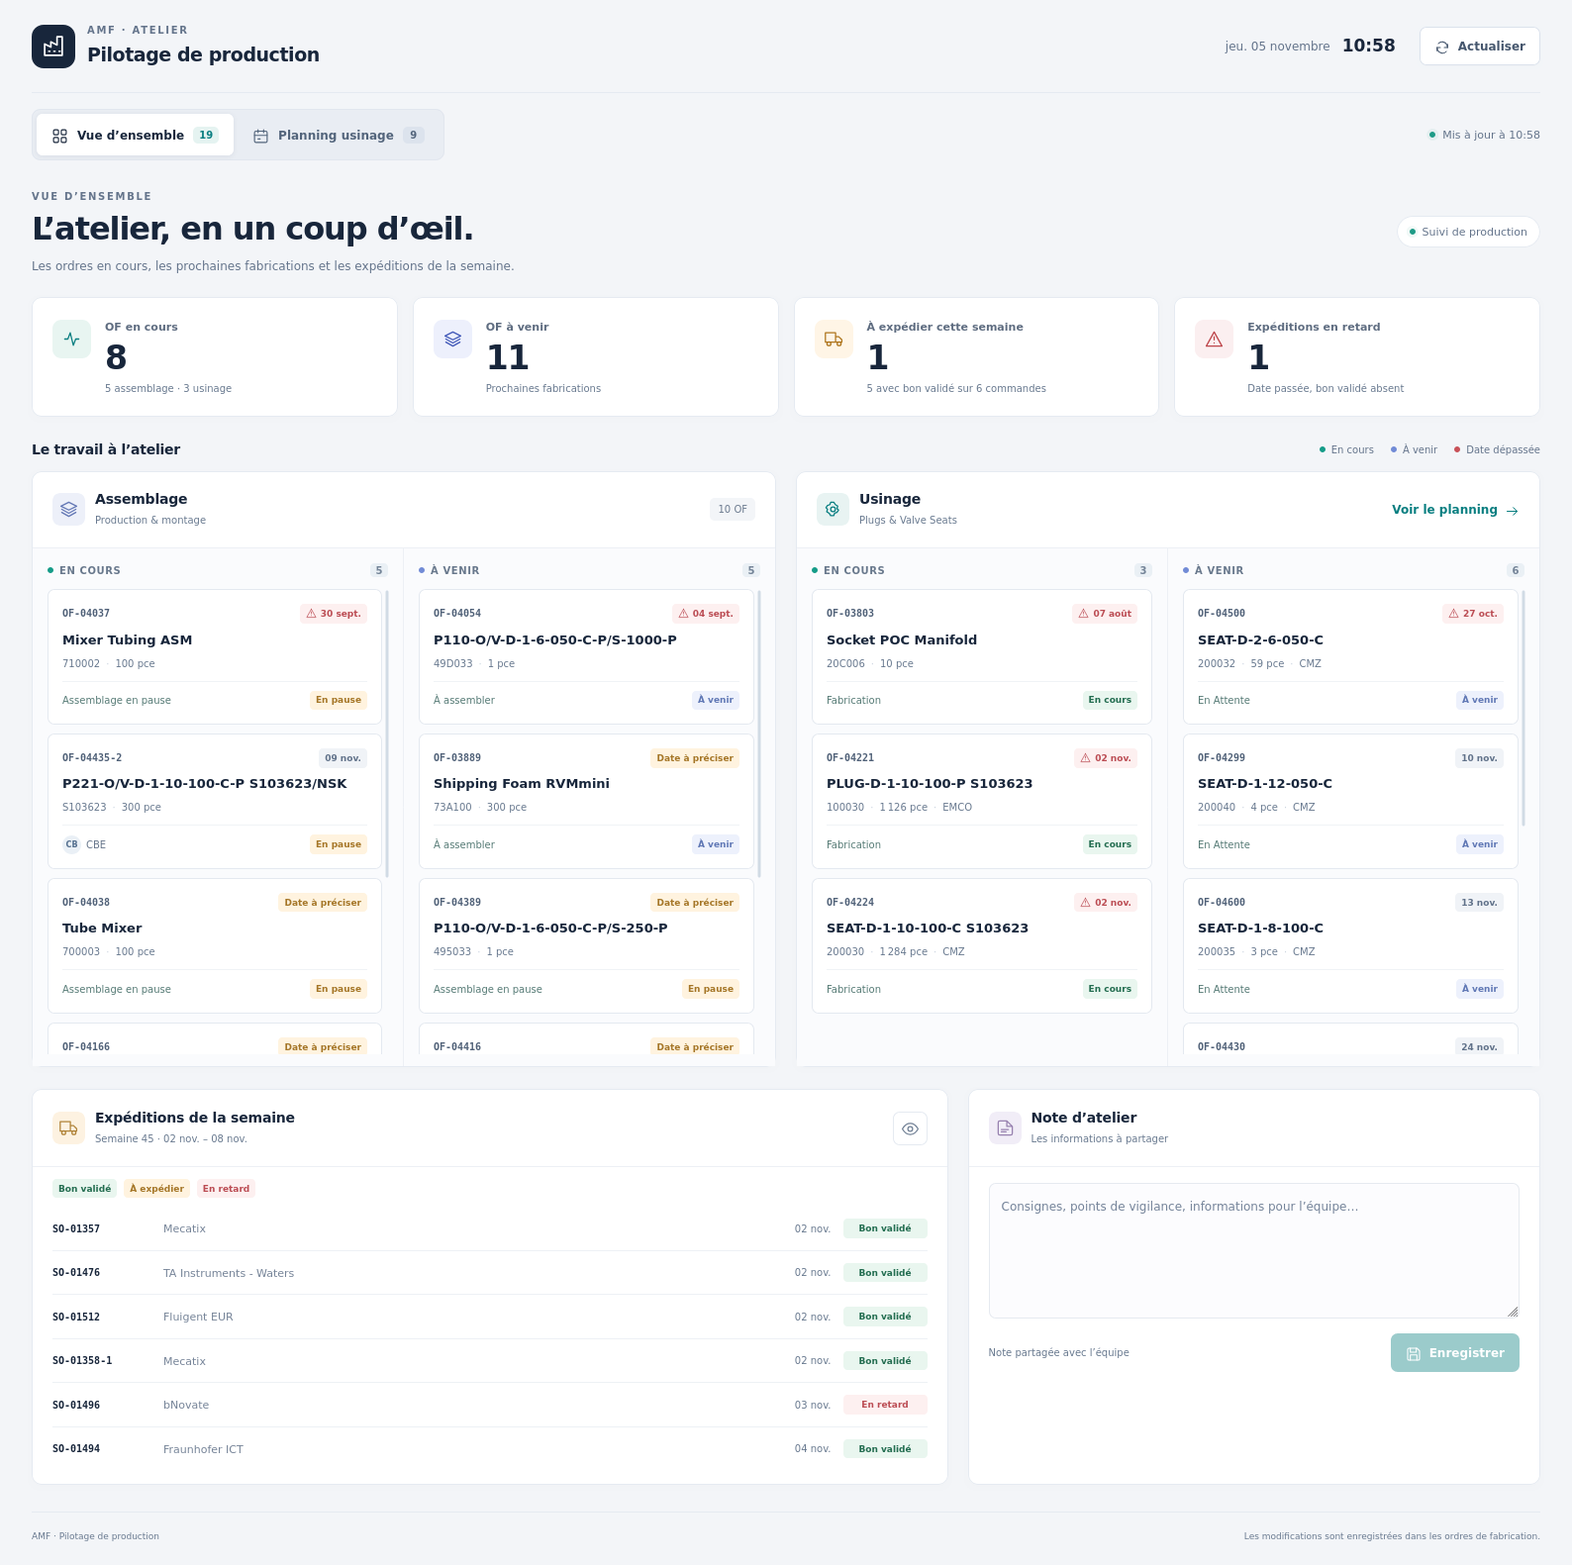
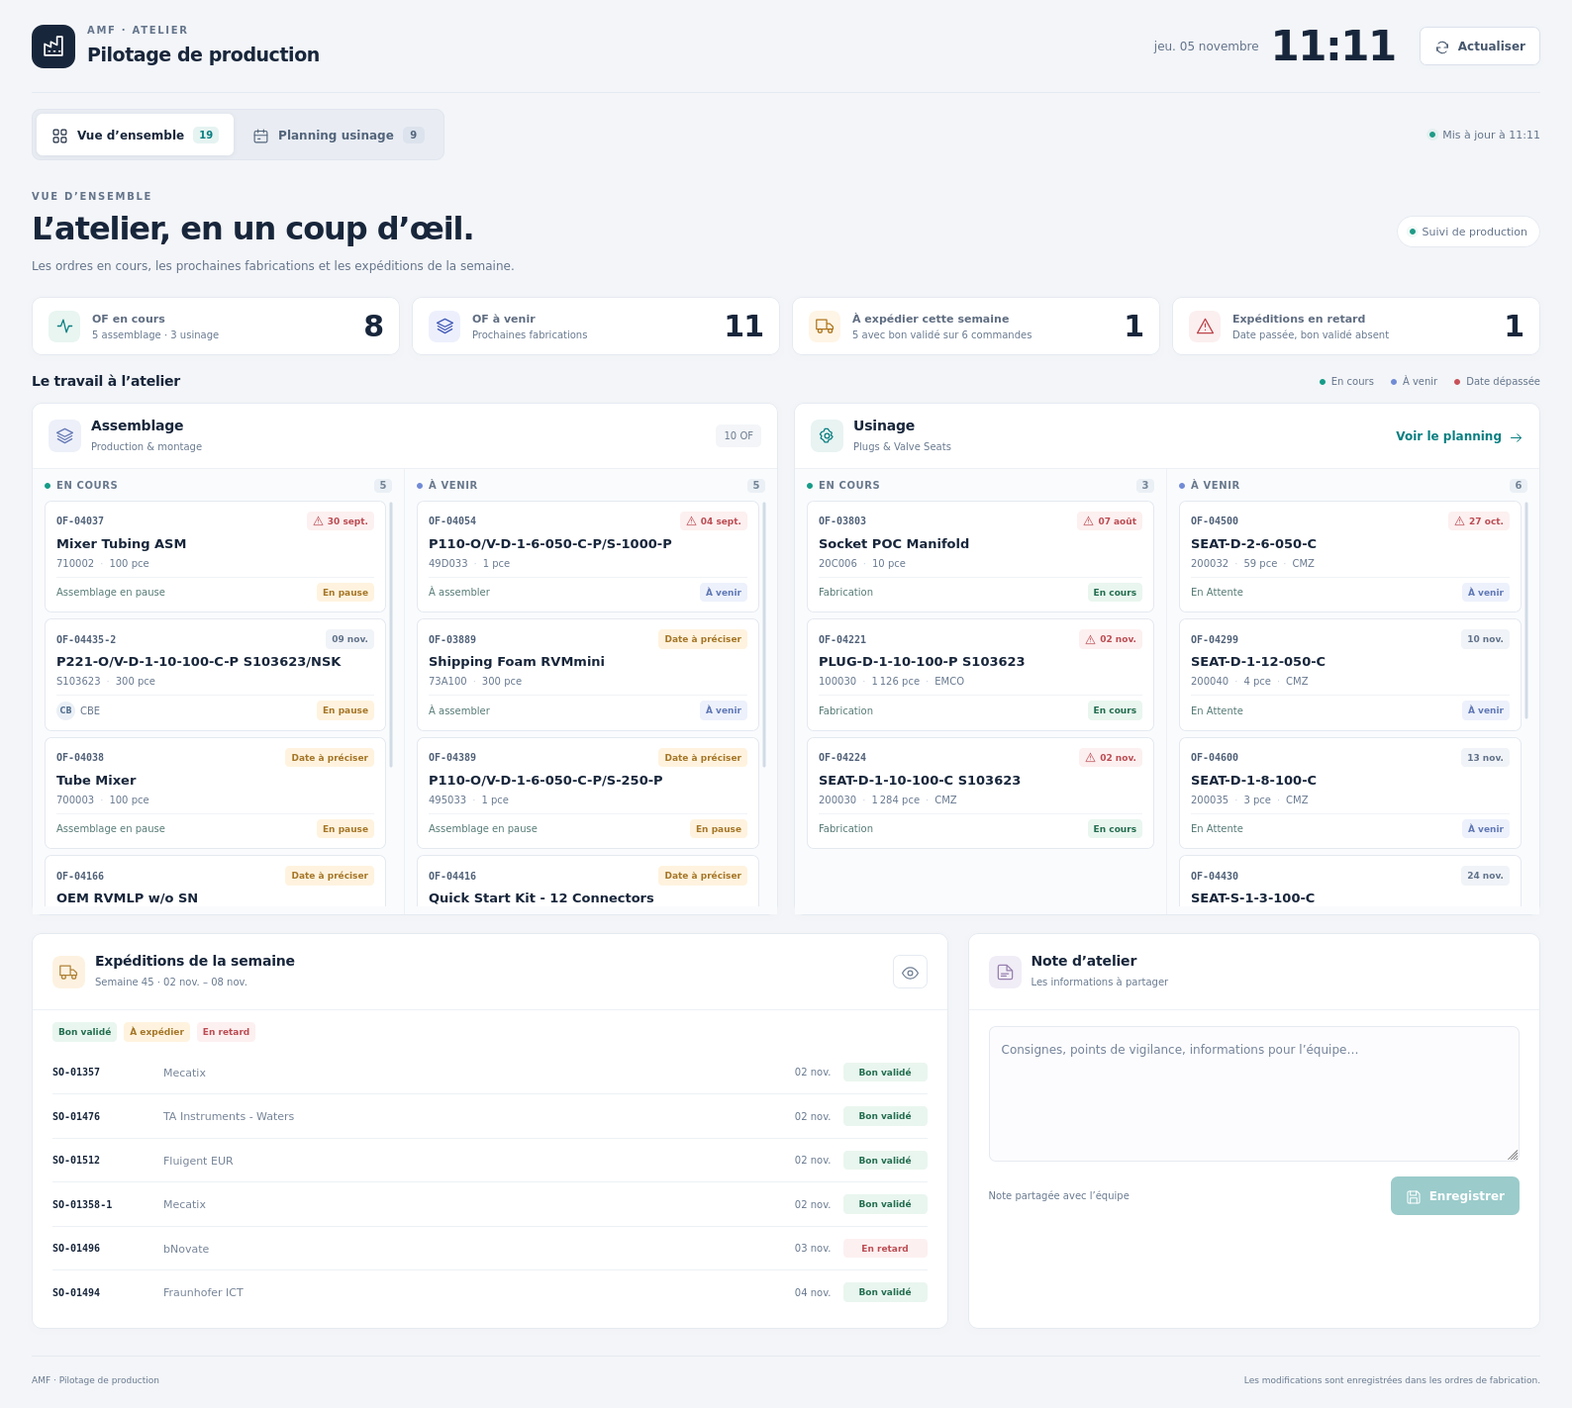
style: compact production panels and enlarge cockpit clock
Enlarge the clock on desktop and mobile, halve the summary panel height, and tighten production cards and lane spacing. Preserve readable labels and current interactions.

Document that merge/migration does not install the database Web Page and verify the V12-compatible installer command with publish=1.

Validation: measured Firefox desktop/mobile layout comparison and successful deployment through bench execute.

diff --git a/amf/templates/includes/production_tracking_planning/page.css b/amf/templates/includes/production_tracking_planning/page.css
@@ -22,7 +22,7 @@ body.pt-planning-page { background: #f3f5f8; }
 .pt-page .pt-eyebrow { display: block; color: var(--pt-muted); font-size: 10px; font-weight: 700; letter-spacing: 1.7px; margin-bottom: 3px; }
 .pt-page .pt-header-tools { display: flex; align-items: center; gap: 24px; }
 .pt-page .pt-clock { display: flex; align-items: center; gap: 12px; color: var(--pt-muted); font-size: 12px; }
-.pt-page .pt-clock strong { color: var(--pt-ink); font-size: 17px; font-variant-numeric: tabular-nums; }
+.pt-page .pt-clock strong { color: var(--pt-ink); font-size: 42px; line-height: 1.05; letter-spacing: -1.5px; font-weight: 700; font-variant-numeric: tabular-nums; }
 .pt-page .pt-button { display: inline-flex; justify-content: center; align-items: center; gap: 8px; min-height: 39px; padding: 9px 14px; border-radius: 7px; border: 1px solid transparent; font-size: 12px; font-weight: 600; white-space: nowrap; transition: background .15s, border-color .15s; }
 .pt-page .pt-button svg { width: 16px; height: 16px; }
 .pt-page .pt-button-light { background: #fff; border-color: #dbe2ec; color: #45566d; box-shadow: 0 1px 2px #18263b04; }
@@ -50,16 +50,17 @@ body.pt-planning-page { background: #f3f5f8; }
 .pt-page h1 { font-size: clamp(24px, 2.2vw, 32px); line-height: 1.2; letter-spacing: -1.05px; font-weight: 680; }
 .pt-page .pt-panel-heading p { color: var(--pt-muted); font-size: 12px; margin-top: 9px; }
 .pt-page .pt-live-label { border: 1px solid var(--pt-line); border-radius: 20px; padding: 7px 12px; background: #fff; }
-.pt-page .pt-kpis { display: grid; grid-template-columns: repeat(4, minmax(0, 1fr)); gap: 15px; margin-bottom: 25px; }
-.pt-page .pt-kpi { display: flex; align-items: flex-start; gap: 14px; min-width: 0; background: #fff; padding: 20px; border: 1px solid var(--pt-line); border-radius: 10px; box-shadow: 0 2px 3px #14233802; }
-.pt-page .pt-kpi-icon { display: grid; place-items: center; border-radius: 9px; width: 39px; height: 39px; flex-shrink: 0; margin-top: 2px; }
+.pt-page .pt-kpis { display: grid; grid-template-columns: repeat(4, minmax(0, 1fr)); gap: 12px; margin-bottom: 18px; }
+.pt-page .pt-kpi { display: flex; align-items: center; gap: 12px; min-width: 0; background: #fff; padding: 12px 16px; border: 1px solid var(--pt-line); border-radius: 10px; box-shadow: 0 2px 3px #14233802; }
+.pt-page .pt-kpi > div { display: grid; grid-template-columns: minmax(0, 1fr) auto; align-items: center; column-gap: 12px; flex: 1; min-width: 0; }
+.pt-page .pt-kpi-icon { display: grid; place-items: center; border-radius: 8px; width: 32px; height: 32px; flex-shrink: 0; }
 .pt-page .pt-kpi-teal .pt-kpi-icon { color: var(--pt-teal); background: #e8f5f1; }
 .pt-page .pt-kpi-blue .pt-kpi-icon { color: var(--pt-blue); background: #edf0fc; }
 .pt-page .pt-kpi-amber .pt-kpi-icon { color: var(--pt-amber); background: #fff5e6; }
 .pt-page .pt-kpi-red .pt-kpi-icon { color: var(--pt-red); background: #fbeff0; }
-.pt-page .pt-kpi-label { display: block; color: #5e6c80; font-size: 11px; font-weight: 550; }
-.pt-page .pt-kpi strong { display: block; font-size: 33px; letter-spacing: -1.2px; line-height: 1.3; font-weight: 700; font-variant-numeric: tabular-nums; margin: 2px 0; }
-.pt-page .pt-kpi-detail { display: block; font-size: 10px; color: #68798f; }
+.pt-page .pt-kpi-label { display: block; grid-column: 1; grid-row: 1; color: #5e6c80; font-size: 11px; font-weight: 550; }
+.pt-page .pt-kpi strong { display: block; grid-column: 2; grid-row: 1 / span 2; justify-self: end; font-size: 30px; letter-spacing: -1px; line-height: 1.1; font-weight: 700; font-variant-numeric: tabular-nums; margin: 0; }
+.pt-page .pt-kpi-detail { display: block; grid-column: 1; grid-row: 2; font-size: 10px; color: #68798f; }
 .pt-page .pt-section-bar { display: flex; justify-content: space-between; align-items: center; gap: 12px; margin-bottom: 13px; }
 .pt-page .pt-section-bar h2 { font-size: 14px; font-weight: 650; letter-spacing: -.25px; }
 .pt-page .pt-section-bar p { color: var(--pt-muted); margin-top: 4px; font-size: 11px; }
@@ -69,9 +70,10 @@ body.pt-planning-page { background: #f3f5f8; }
 .pt-page .pt-dot-teal { background: #159c88; }
 .pt-page .pt-dot-blue { background: #718bd6; }
 .pt-page .pt-dot-red { background: #c85158; }
-.pt-page .pt-boards { display: grid; grid-template-columns: repeat(2, minmax(0, 1fr)); gap: 20px; margin-bottom: 22px; }
+.pt-page .pt-boards { display: grid; grid-template-columns: repeat(2, minmax(0, 1fr)); gap: 16px; margin-bottom: 18px; }
 .pt-page .pt-board, .pt-page .pt-surface { min-width: 0; background: #fff; border: 1px solid var(--pt-line); border-radius: 10px; box-shadow: 0 2px 3px #14233802; }
 .pt-page .pt-board-header, .pt-page .pt-surface-header { display: flex; align-items: center; justify-content: space-between; gap: 15px; padding: 18px 20px; border-bottom: 1px solid #edf0f5; }
+.pt-page .pt-board-header { padding: 12px 16px; }
 .pt-page .pt-section-title { display: flex; align-items: center; gap: 10px; min-width: 0; }
 .pt-page .pt-section-icon { display: grid; place-items: center; width: 33px; height: 33px; flex-shrink: 0; background: #edf0f9; color: #6478b5; border-radius: 8px; }
 .pt-page .pt-board-machining .pt-section-icon { background: #e8f3f2; color: var(--pt-teal); }
@@ -81,19 +83,19 @@ body.pt-planning-page { background: #f3f5f8; }
 .pt-page .pt-section-title span:not(.pt-section-icon) { font-size: 10px; color: #68798f; }
 .pt-page .pt-count-pill { background: #f3f5f8; padding: 4px 8px; border-radius: 5px; color: #6c7b8f; font-size: 10px; white-space: nowrap; }
 .pt-page .pt-board-lanes { display: grid; grid-template-columns: repeat(2, minmax(0, 1fr)); }
-.pt-page .pt-lane { min-width: 0; padding: 15px 13px 12px; background: #fafbfd; }
+.pt-page .pt-lane { min-width: 0; padding: 10px 10px 8px; background: #fafbfd; }
 .pt-page .pt-lane:first-child { border-right: 1px solid #edf0f5; }
-.pt-page .pt-lane h3 { display: flex; align-items: center; gap: 6px; color: #68788c; font-size: 10px; font-weight: 650; text-transform: uppercase; letter-spacing: .6px; margin: 0 2px 12px; }
+.pt-page .pt-lane h3 { display: flex; align-items: center; gap: 6px; color: #68788c; font-size: 10px; font-weight: 650; text-transform: uppercase; letter-spacing: .6px; margin: 0 2px 8px; }
 .pt-page .pt-lane-count { margin-left: auto; color: #738397; background: #eaf0f5; border-radius: 4px; padding: 1px 5px; font-size: 10px; }
-.pt-page .pt-order-list { display: flex; flex-direction: column; gap: 9px; max-height: 470px; overflow-y: auto; scrollbar-width: thin; scrollbar-color: #d1dbe5 transparent; padding: 0 2px 2px; }
-.pt-page .pt-order-card { display: block; background: #fff; border: 1px solid #e4e9f0; border-radius: 7px; padding: 12px; min-width: 0; transition: border-color .15s, box-shadow .15s; }
+.pt-page .pt-order-list { display: flex; flex-direction: column; gap: 6px; max-height: 410px; overflow-y: auto; scrollbar-width: thin; scrollbar-color: #d1dbe5 transparent; padding: 0 2px 2px; }
+.pt-page .pt-order-card { display: block; background: #fff; border: 1px solid #e4e9f0; border-radius: 7px; padding: 9px 10px; min-width: 0; transition: border-color .15s, box-shadow .15s; }
 .pt-page .pt-order-card:hover { color: var(--pt-ink); border-color: #8fb8b8; box-shadow: 0 3px 9px #18263b09; }
 .pt-page .pt-order-card.pt-order-active { border-left: 3px solid #29a291; }
 .pt-page .pt-order-top { display: flex; align-items: center; justify-content: space-between; gap: 5px; }
 .pt-page .pt-order-id { font-family: ui-monospace, SFMono-Regular, Consolas, monospace; color: #506178; font-size: 10px; font-weight: 600; }
-.pt-page .pt-order-name { display: block; font-size: 12px; font-weight: 650; line-height: 1.45; margin: 7px 0; overflow-wrap: anywhere; }
+.pt-page .pt-order-name { display: block; font-size: 12px; font-weight: 650; line-height: 1.35; margin: 4px 0; overflow-wrap: anywhere; }
 .pt-page .pt-order-meta, .pt-page .pt-order-bottom { display: flex; align-items: center; flex-wrap: wrap; gap: 6px; color: #68798f; font-size: 10px; }
-.pt-page .pt-order-bottom { justify-content: space-between; margin-top: 10px; padding-top: 9px; border-top: 1px solid #f0f3f6; }
+.pt-page .pt-order-bottom { justify-content: space-between; margin-top: 6px; padding-top: 5px; border-top: 1px solid #f0f3f6; }
 .pt-page .pt-order-meta .pt-meta-separator { color: #cad3df; }
 .pt-page .pt-operator { display: inline-flex; align-items: center; gap: 5px; color: #68778c; }
 .pt-page .pt-operator-avatar { display: inline-grid; place-items: center; width: 19px; height: 19px; border-radius: 50%; background: #eaf0f6; font-size: 8px; font-weight: 700; color: #536e8e; }
@@ -209,8 +211,8 @@ body.pt-planning-page { background: #f3f5f8; }
 .pt-page .pt-page-footer { display: flex; justify-content: space-between; flex-wrap: wrap; gap: 10px; margin-top: 27px; border-top: 1px solid #e5eaf1; padding-top: 17px; color: #68798f; font-size: 9px; }
 .pt-page .pt-skeleton { height: 105px; border-radius: 7px; background: #edf1f6; animation: pt-pulse 1.4s ease-in-out infinite; }
 @keyframes pt-pulse { 50% { opacity: .45; } }
-@media (min-width: 1600px) { .pt-page .pt-order-card { padding: 14px; } .pt-page .pt-order-name { font-size: 13px; } }
-@media (max-width: 1150px) { .pt-planning-page main.container { padding: 0 22px; } .pt-page .pt-kpi { padding: 16px; gap: 10px; } .pt-page .pt-kpi-icon { width: 32px; height: 32px; } .pt-page .pt-kpi strong { font-size: 28px; } .pt-page .pt-boards { grid-template-columns: 1fr; } .pt-page .pt-order-list { max-height: 350px; } .pt-page .pt-overview-bottom { grid-template-columns: 1.2fr 1fr; } .pt-page .pt-shipment { grid-template-columns: 88px minmax(0,1fr) 55px; gap: 6px; } .pt-page .pt-shipment .pt-badge { grid-column: 2; justify-self: start; } }
-@media (max-width: 760px) { .pt-planning-page main.container { padding: 0 16px; } .pt-page .pt-header { min-height: 84px; gap: 10px; } .pt-page .pt-brand strong { font-size: 15px; } .pt-page .pt-brand-mark { width: 37px; height: 37px; border-radius: 10px; } .pt-page .pt-brand { gap: 9px; } .pt-page .pt-clock { display: none; } .pt-page .pt-header-tools { gap: 0; } .pt-page .pt-header-tools .pt-button { min-width: 34px; padding: 8px; } .pt-page .pt-header-tools .pt-button > span:last-child { display: none; } .pt-page .pt-navigation { display: block; padding: 13px 0; } .pt-page .pt-tabs { width: 100%; } .pt-page .pt-tab { flex: 1; padding: 9px 7px; font-size: 11px; gap: 6px; } .pt-page .pt-sync { margin-top: 11px; } .pt-page .pt-panel { padding-top: 8px; } .pt-page .pt-panel-heading { align-items: flex-start; margin-bottom: 18px; gap: 12px; } .pt-page .pt-panel-heading h1 { font-size: 25px; } .pt-page .pt-panel-heading p { font-size: 11px; line-height: 1.6; } .pt-page .pt-live-label { display: none; } .pt-page .pt-panel-heading > .pt-button { font-size: 0; padding: 9px; } .pt-page .pt-panel-heading > .pt-button svg { width: 17px; height: 17px; } .pt-page .pt-kpis { grid-template-columns: repeat(2,minmax(0,1fr)); gap: 10px; margin-bottom: 20px; } .pt-page .pt-kpi { padding: 14px 12px; gap: 9px; } .pt-page .pt-kpi strong { font-size: 27px; } .pt-page .pt-kpi-label { font-size: 10px; } .pt-page .pt-kpi-detail { font-size: 9px; } .pt-page .pt-kpi-icon { width: 26px; height: 26px; border-radius: 6px; } .pt-page .pt-kpi-icon svg { width: 15px; height: 15px; } .pt-page .pt-legend { gap: 9px; font-size: 8px; } .pt-page .pt-section-bar h2 { font-size: 12px; } .pt-page .pt-board-header, .pt-page .pt-surface-header { padding: 15px; } .pt-page .pt-lane { padding: 12px 8px; } .pt-page .pt-order-card { padding: 10px; } .pt-page .pt-order-name { font-size: 11px; } .pt-page .pt-order-meta { font-size: 9px; } .pt-page .pt-order-top { align-items: flex-start; flex-wrap: wrap; } .pt-page .pt-order-bottom { gap: 7px; } .pt-page .pt-overview-bottom { grid-template-columns: 1fr; gap: 16px; } .pt-page .pt-table-toolbar { padding: 13px; gap: 12px; } .pt-page .pt-search { max-width: none; flex-basis: 100%; min-width: 0; } .pt-page .pt-select-filters { width: 100%; gap: 7px; flex-wrap: wrap; } .pt-page .pt-select-filters label { gap: 5px; } .pt-page .pt-select-filters label > span { display: none; } .pt-page .pt-select-filters select { max-width: 150px; font-size: 10px; } .pt-page .pt-caption-order { display: none; } .pt-page .pt-table-caption { padding: 10px 13px; } .pt-page .pt-table-footer { padding: 12px 13px; font-size: 9px; } .pt-page .pt-planning-tools { gap: 10px; } .pt-page .pt-filter-chips { gap: 5px; } .pt-page .pt-filter-chips button { font-size: 10px; padding: 5px 8px; gap: 6px; } .pt-page .pt-table .pt-source, .pt-page .pt-table th:first-child { position: static; min-width: 80px; } .pt-page .pt-table .pt-id-cell, .pt-page .pt-table th:nth-child(2) { left: 0; min-width: 95px; } .pt-page .pt-table .pt-actions, .pt-page .pt-table th:last-child { position: static; } .pt-page .pt-table th:first-child { position: sticky; } .pt-page .pt-table-wrap { max-height: 66vh; } .pt-page .pt-pending-bar { bottom: 8px; font-size: 10px; } .pt-page .pt-pending-bar button { font-size: 9px; } .pt-page .pt-page-footer { font-size: 8px; } }
+@media (min-width: 1600px) { .pt-page .pt-order-card { padding: 10px 11px; } .pt-page .pt-order-name { font-size: 13px; } }
+@media (max-width: 1150px) { .pt-planning-page main.container { padding: 0 22px; } .pt-page .pt-kpi { padding: 11px 14px; gap: 10px; } .pt-page .pt-kpi-icon { width: 32px; height: 32px; } .pt-page .pt-kpi strong { font-size: 28px; } .pt-page .pt-boards { grid-template-columns: 1fr; } .pt-page .pt-order-list { max-height: 340px; } .pt-page .pt-overview-bottom { grid-template-columns: 1.2fr 1fr; } .pt-page .pt-shipment { grid-template-columns: 88px minmax(0,1fr) 55px; gap: 6px; } .pt-page .pt-shipment .pt-badge { grid-column: 2; justify-self: start; } }
+@media (max-width: 760px) { .pt-planning-page main.container { padding: 0 16px; } .pt-page .pt-header { min-height: 84px; gap: 10px; } .pt-page .pt-brand strong { font-size: 15px; } .pt-page .pt-brand-mark { width: 37px; height: 37px; border-radius: 10px; } .pt-page .pt-brand { gap: 9px; } .pt-page .pt-clock { display: flex; } .pt-page .pt-clock strong { font-size: 28px; letter-spacing: -1px; } .pt-page #date-display { display: none; } .pt-page .pt-header-tools { gap: 12px; flex-shrink: 0; } .pt-page .pt-brand { min-width: 0; } .pt-page .pt-header-tools .pt-button { min-width: 34px; padding: 8px; } .pt-page .pt-header-tools .pt-button > span:last-child { display: none; } .pt-page .pt-navigation { display: block; padding: 13px 0; } .pt-page .pt-tabs { width: 100%; } .pt-page .pt-tab { flex: 1; padding: 9px 7px; font-size: 11px; gap: 6px; } .pt-page .pt-sync { margin-top: 11px; } .pt-page .pt-panel { padding-top: 8px; } .pt-page .pt-panel-heading { align-items: flex-start; margin-bottom: 18px; gap: 12px; } .pt-page .pt-panel-heading h1 { font-size: 25px; } .pt-page .pt-panel-heading p { font-size: 11px; line-height: 1.6; } .pt-page .pt-live-label { display: none; } .pt-page .pt-panel-heading > .pt-button { font-size: 0; padding: 9px; } .pt-page .pt-panel-heading > .pt-button svg { width: 17px; height: 17px; } .pt-page .pt-kpis { grid-template-columns: repeat(2,minmax(0,1fr)); gap: 10px; margin-bottom: 20px; } .pt-page .pt-kpi { padding: 10px 11px; gap: 8px; } .pt-page .pt-kpi > div { column-gap: 7px; } .pt-page .pt-kpi strong { font-size: 26px; } .pt-page .pt-kpi-label { font-size: 10px; } .pt-page .pt-kpi-detail { font-size: 9px; } .pt-page .pt-kpi-icon { width: 26px; height: 26px; border-radius: 6px; } .pt-page .pt-kpi-icon svg { width: 15px; height: 15px; } .pt-page .pt-legend { gap: 9px; font-size: 8px; } .pt-page .pt-section-bar h2 { font-size: 12px; } .pt-page .pt-board-header, .pt-page .pt-surface-header { padding: 12px; } .pt-page .pt-lane { padding: 10px 8px; } .pt-page .pt-order-card { padding: 8px; } .pt-page .pt-order-name { font-size: 11px; } .pt-page .pt-order-meta { font-size: 9px; } .pt-page .pt-order-top { align-items: flex-start; flex-wrap: wrap; } .pt-page .pt-order-bottom { gap: 7px; } .pt-page .pt-overview-bottom { grid-template-columns: 1fr; gap: 16px; } .pt-page .pt-table-toolbar { padding: 13px; gap: 12px; } .pt-page .pt-search { max-width: none; flex-basis: 100%; min-width: 0; } .pt-page .pt-select-filters { width: 100%; gap: 7px; flex-wrap: wrap; } .pt-page .pt-select-filters label { gap: 5px; } .pt-page .pt-select-filters label > span { display: none; } .pt-page .pt-select-filters select { max-width: 150px; font-size: 10px; } .pt-page .pt-caption-order { display: none; } .pt-page .pt-table-caption { padding: 10px 13px; } .pt-page .pt-table-footer { padding: 12px 13px; font-size: 9px; } .pt-page .pt-planning-tools { gap: 10px; } .pt-page .pt-filter-chips { gap: 5px; } .pt-page .pt-filter-chips button { font-size: 10px; padding: 5px 8px; gap: 6px; } .pt-page .pt-table .pt-source, .pt-page .pt-table th:first-child { position: static; min-width: 80px; } .pt-page .pt-table .pt-id-cell, .pt-page .pt-table th:nth-child(2) { left: 0; min-width: 95px; } .pt-page .pt-table .pt-actions, .pt-page .pt-table th:last-child { position: static; } .pt-page .pt-table th:first-child { position: sticky; } .pt-page .pt-table-wrap { max-height: 66vh; } .pt-page .pt-pending-bar { bottom: 8px; font-size: 10px; } .pt-page .pt-pending-bar button { font-size: 9px; } .pt-page .pt-page-footer { font-size: 8px; } }
 @media (prefers-reduced-motion: reduce) { .pt-page *, .pt-page *::before, .pt-page *::after { animation: none !important; transition: none !important; } }
 @media (max-width: 760px) { .pt-page .pt-table th:first-child { left: auto; } }

diff --git a/amf/docs/production_tracking_planning_redesign.md b/amf/docs/production_tracking_planning_redesign.md
@@ -6,6 +6,25 @@ The published copy now uses a shared production cockpit with consistent navigati
 clear visual hierarchy, compact status labels and a responsive layout. Its route remains
 `/production-tracking-planning`; `#usinage` opens the planning tab directly.
 
+The later density adjustment enlarges the desktop clock to 42 px (28 px on mobile),
+places summary values beside their labels to reduce the four-panel row height, and
+tightens the production card padding, spacing and lane headers without truncating labels.
+
+## Deploying to the live site
+
+A Git merge alone does not create or refresh this database-stored Web Page. There is
+currently no fixture, patch or migration hook that runs its installer. After deploying
+the code, run the following from the live bench, replacing `LIVE_SITE` with its site name:
+
+```sh
+bench --site LIVE_SITE execute amf.www.production_tracking_planning.install_page --kwargs '{"publish": 1}'
+```
+
+This creates the separate page if absent, or refreshes its HTML, CSS and JavaScript if
+already present, then publishes it. Manual creation through the Web Page form is not
+required. Run it after future updates to these page templates as well. The original
+`production-tracking` page is not modified.
+
 ## Production overview
 
 - Four live summaries: ongoing orders, upcoming orders, remaining weekly shipments and overdue shipments.

diff --git a/amf/docs/production_tracking_planning_audit.md b/amf/docs/production_tracking_planning_audit.md
@@ -206,7 +206,7 @@ The installer refreshes only the duplicate from the new source files. It is inte
 not an HTTP-whitelisted method. To recreate or refresh the published copy:
 
 ```sh
-bench --site site1.local execute amf.www.production_tracking_planning.install_page --kwargs '{"publish": true}'
+bench --site site1.local execute amf.www.production_tracking_planning.install_page --kwargs '{"publish": 1}'
 ```
 
 Omitting `publish`, or passing `false`, saves the copy as an unpublished draft.
